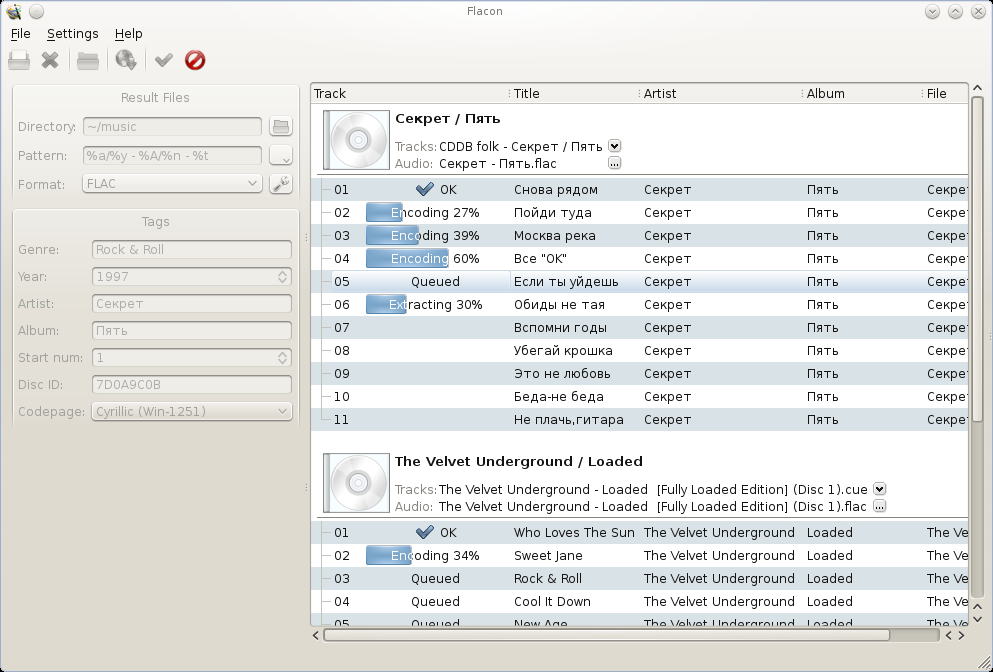
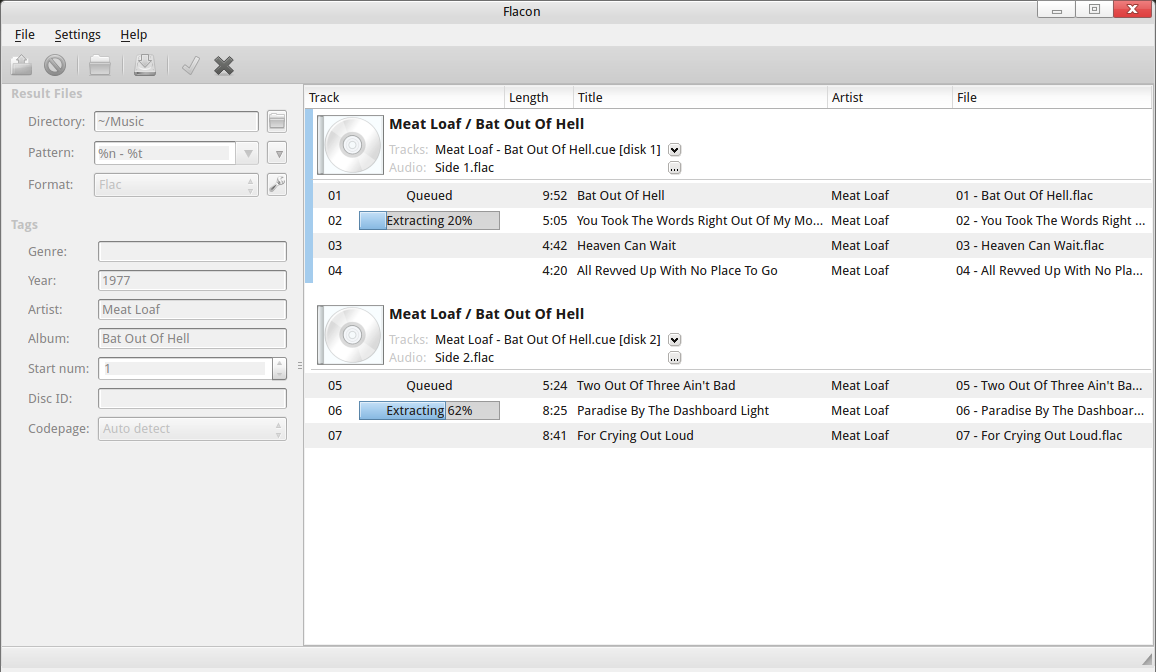
Release 2.0.0

diff --git a/index.html b/index.html
@@ -18,9 +18,7 @@ menuItem: home
   <li>Automatic character set detection for CUE files.</li>
   <li>Generation of the pertrack CUE file in the output dir.</li>
 </ul>
-</p>
 
-<p>
 <h2>Screenshot</h2>
 {% include gallery_img.html img="screenshots/flacon-1.png" preview="screenshots/flacon-1-small.png" %}
 <p><a href="/screenshots">More screenshots</a></p>

diff --git a/changelog/_posts/2016-01-29-Flacon-2.0.0.md b/changelog/_posts/2016-01-29-Flacon-2.0.0.md
@@ -1,0 +1,13 @@
+---
+layout: default
+version: 2.0.0
+---
+* Support CUE files with several FILE tags.
+* Fix: Flacon crashed if audio file was corrupt.
+* Improved stability of the program.
+* The program displays the duration of the tracks.
+* New visual design of tracks selection.
+* Program checks duration of the disk, if disk is shorter than CUE warning mark is displayed.
+* Improves in the texts and messages.
+* Translations updated
+* OS/2 support.
